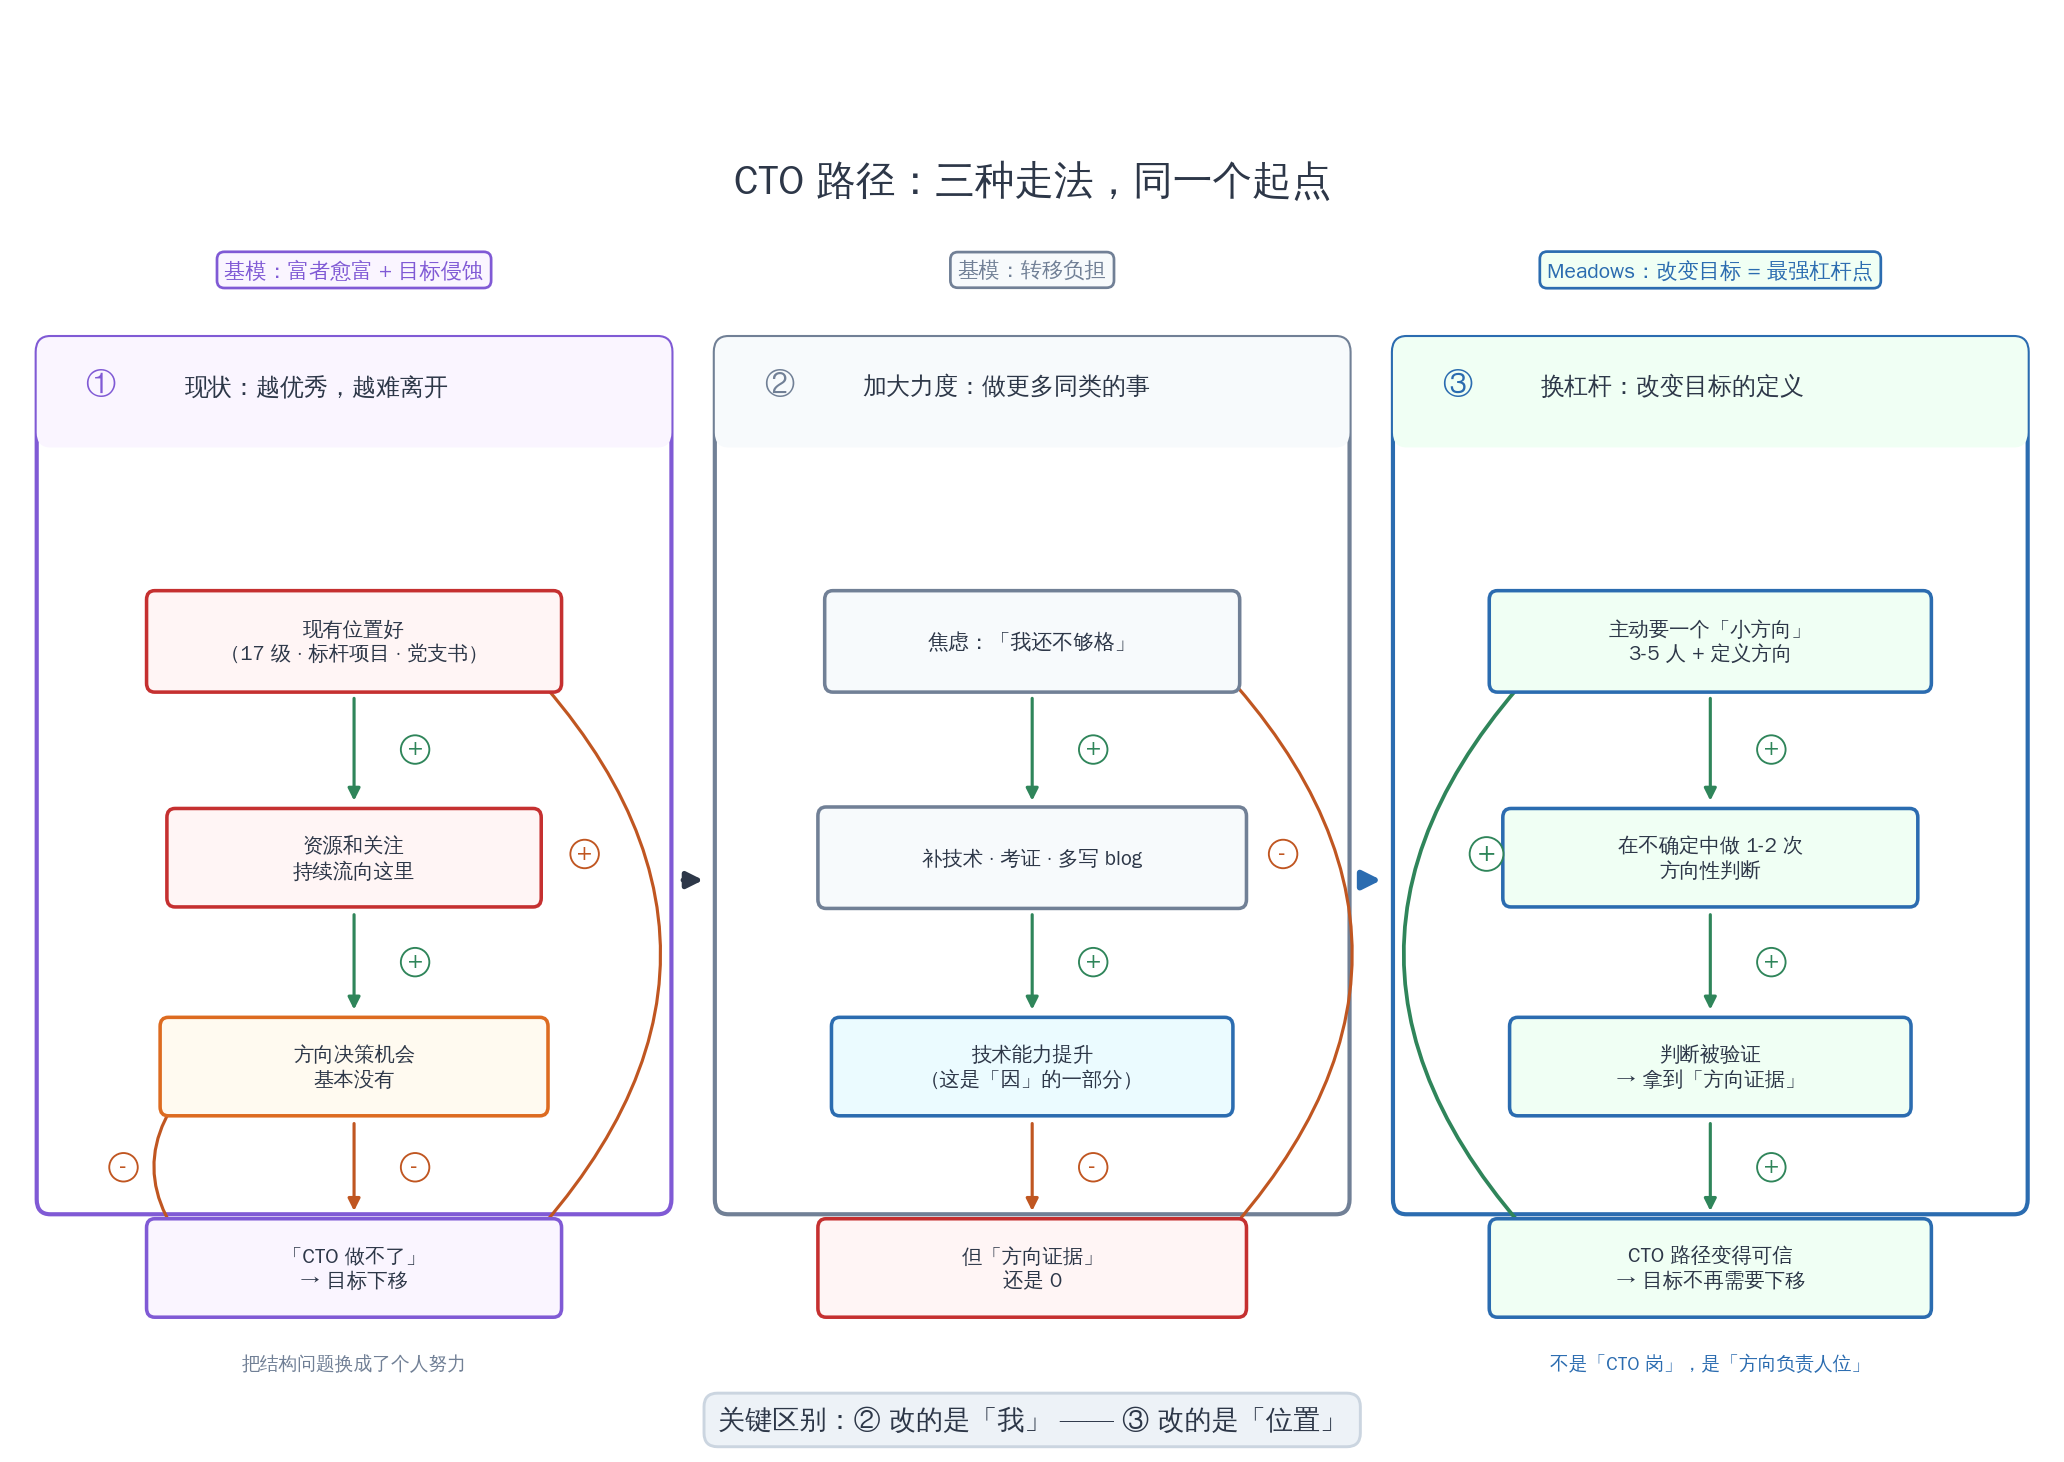
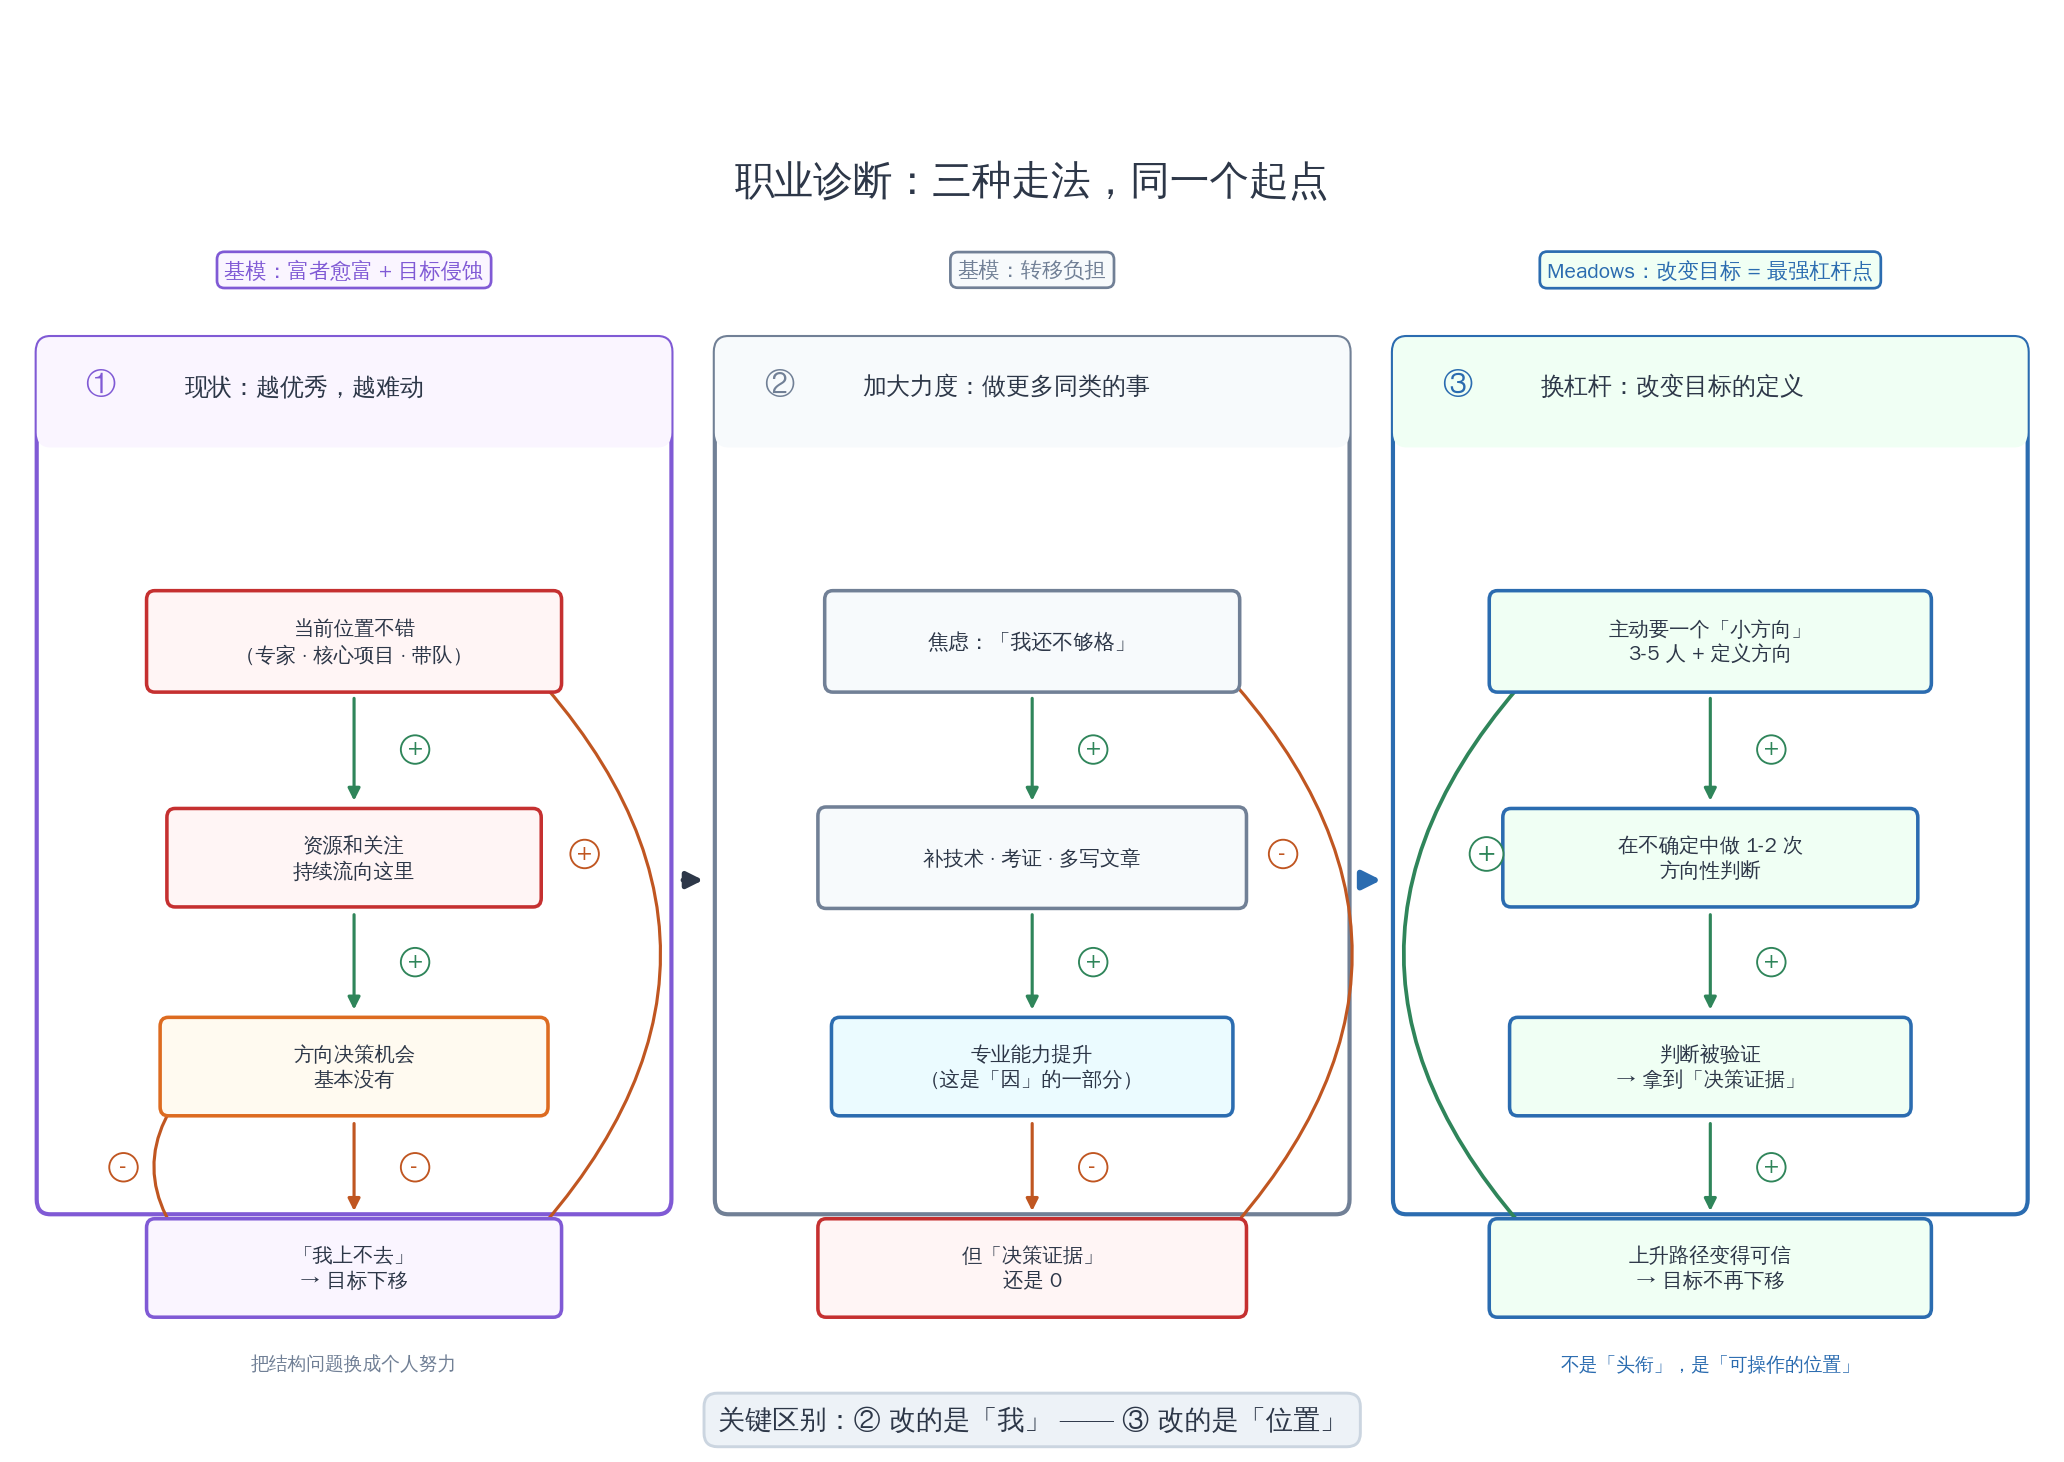
refactor(blog): 基模篇实战部分去个人化，改标题
**标题**：《你掉的坑都有名字：8 个系统基模，和一次对自己的诊断》
    →《系统思维应用：8 个系统基模，和一次职业诊断》

**实战部分泛化**（从个人自白 → 通用案例）：
- 「我的 CTO 路径」→「技术人想往上走一步，但卡住了」这个通用场景
- 第一人称叙述全部改第三人称（「这个人」「他的焦虑」）
- 去掉的个人化表述：17 级、标杆项目、党支书、CTO
  具体目标「CTO」→ 泛化为「更大的技术角色」/「头衔」
- 「方向证据」→「决策证据」，改成任何方向型目标都适用

**配图同步泛化**：
- 标题「CTO 路径」→「职业诊断」
- 节点文字全部去个人化
- 「不是 CTO 岗，是方向负责人位」→「不是头衔，是可操作的位置」

**新增通用规律**（全篇可复用的落点）：
> 转型类的问题（换方向、换行业、升管理层），
> 几乎都是富者愈富 + 转移负担的组合。

diff --git a/src/images/gen_cto_path_fig.py b/src/images/gen_cto_path_fig.py
@@ -37,7 +37,7 @@ def sg(ax,x,y,s,color,fs=12):
 fig, ax = plt.subplots(figsize=(17.5, 12.4), dpi=150)
 ax.set_xlim(0, 150); ax.set_ylim(0, 96); ax.axis("off")
 
-ax.text(75, 84, "CTO 路径：三种走法，同一个起点", ha="center",
+ax.text(75, 84, "职业诊断：三种走法，同一个起点", ha="center",
         fontsize=19, fontweight="bold", color="#2D3748")
 
 PW, PH, Y0 = 46, 58, 16
@@ -64,11 +64,11 @@ Y = [54, 39.5, 25.5, 12]   # 四个节点的高度
 
 # ═════ ① 现状 ═════
 x=2; cx=x+PW/2
-panel(x,"①","现状：越优秀，越难离开",PU,BW,"基模：富者愈富 + 目标侵蚀",BW)
-box(ax,cx,Y[0],30,6.2,"现有位置好\n（17 级 · 标杆项目 · 党支书）",BR,C_R)
+panel(x,"①","现状：越优秀，越难动",PU,BW,"基模：富者愈富 + 目标侵蚀",BW)
+box(ax,cx,Y[0],30,6.2,"当前位置不错\n（专家 · 核心项目 · 带队）",BR,C_R)
 box(ax,cx,Y[1],27,6,"资源和关注\n持续流向这里",BR,C_R)
 box(ax,cx,Y[2],28,6,"方向决策机会\n基本没有",BY,"#DD6B20")
-box(ax,cx,Y[3],30,6,"「CTO 做不了」\n→ 目标下移",BW,PU)
+box(ax,cx,Y[3],30,6,"「我上不去」\n→ 目标下移",BW,PU)
 link(ax,(cx,Y[0]-3.4),(cx,Y[1]+3.4),C_POS); sg(ax,cx+4.5,(Y[0]+Y[1])/2,"+",C_POS)
 link(ax,(cx,Y[1]-3.4),(cx,Y[2]+3.4),C_POS); sg(ax,cx+4.5,(Y[1]+Y[2])/2,"+",C_POS)
 link(ax,(cx,Y[2]-3.4),(cx,Y[3]+3.4),C_NEG); sg(ax,cx+4.5,(Y[2]+Y[3])/2,"-",C_NEG)
@@ -79,9 +79,9 @@ link(ax,(cx+11,Y[3]),(cx+11,Y[0]),C_NEG,rad=0.5); sg(ax,cx+17,(Y[2]+Y[0])/2,"+",
 x=52; cx=x+PW/2
 panel(x,"②","加大力度：做更多同类的事",C_MUT,"#F7FAFC","基模：转移负担","#F7FAFC")
 box(ax,cx,Y[0],30,6.2,"焦虑：「我还不够格」","#F7FAFC",C_MUT,10)
-box(ax,cx,Y[1],31,6.2,"补技术 · 考证 · 多写 blog","#F7FAFC",C_MUT)
-box(ax,cx,Y[2],29,6,"技术能力提升\n（这是「因」的一部分）",BB,C_B)
-box(ax,cx,Y[3],31,6,"但「方向证据」\n还是 0",BR,C_R)
+box(ax,cx,Y[1],31,6.2,"补技术 · 考证 · 多写文章","#F7FAFC",C_MUT)
+box(ax,cx,Y[2],29,6,"专业能力提升\n（这是「因」的一部分）",BB,C_B)
+box(ax,cx,Y[3],31,6,"但「决策证据」\n还是 0",BR,C_R)
 link(ax,(cx,Y[0]-3.4),(cx,Y[1]+3.4),C_POS); sg(ax,cx+4.5,(Y[0]+Y[1])/2,"+",C_POS)
 link(ax,(cx,Y[1]-3.4),(cx,Y[2]+3.4),C_POS); sg(ax,cx+4.5,(Y[1]+Y[2])/2,"+",C_POS)
 link(ax,(cx,Y[2]-3.4),(cx,Y[3]+3.4),C_NEG); sg(ax,cx+4.5,(Y[2]+Y[3])/2,"-",C_NEG)
@@ -92,8 +92,8 @@ x=102; cx=x+PW/2
 panel(x,"③","换杠杆：改变目标的定义",C_B,BG,"Meadows：改变目标 = 最强杠杆点",BG)
 box(ax,cx,Y[0],32,6.2,"主动要一个「小方向」\n3-5 人 + 定义方向",BG,C_B)
 box(ax,cx,Y[1],30,6,"在不确定中做 1-2 次\n方向性判断",BG,C_B)
-box(ax,cx,Y[2],29,6,"判断被验证\n→ 拿到「方向证据」",BG,C_B)
-box(ax,cx,Y[3],32,6,"CTO 路径变得可信\n→ 目标不再需要下移",BG,C_B)
+box(ax,cx,Y[2],29,6,"判断被验证\n→ 拿到「决策证据」",BG,C_B)
+box(ax,cx,Y[3],32,6,"上升路径变得可信\n→ 目标不再下移",BG,C_B)
 link(ax,(cx,Y[0]-3.4),(cx,Y[1]+3.4),C_POS); sg(ax,cx+4.5,(Y[0]+Y[1])/2,"+",C_POS)
 link(ax,(cx,Y[1]-3.4),(cx,Y[2]+3.4),C_POS); sg(ax,cx+4.5,(Y[1]+Y[2])/2,"+",C_POS)
 link(ax,(cx,Y[2]-3.4),(cx,Y[3]+3.4),C_POS); sg(ax,cx+4.5,(Y[2]+Y[3])/2,"+",C_POS)
@@ -105,9 +105,9 @@ link(ax,(48.8,38),(51.2,38),C_EDGE,lw=2.4,mut=16)
 link(ax,(98.8,38),(101.2,38),C_B,lw=2.8,mut=18)
 
 # 副注
-ax.text(25, 5.2, "把结构问题换成了个人努力", ha="center", fontsize=9.0,
+ax.text(25, 5.2, "把结构问题换成个人努力", ha="center", fontsize=9.0,
         color=C_MUT, style="italic")
-ax.text(125, 5.2, "不是「CTO 岗」，是「方向负责人位」", ha="center", fontsize=9.0,
+ax.text(125, 5.2, "不是「头衔」，是「可操作的位置」", ha="center", fontsize=9.0,
         color=C_B, style="italic")
 
 ax.text(75, 1.2, "关键区别：② 改的是「我」 —— ③ 改的是「位置」",
